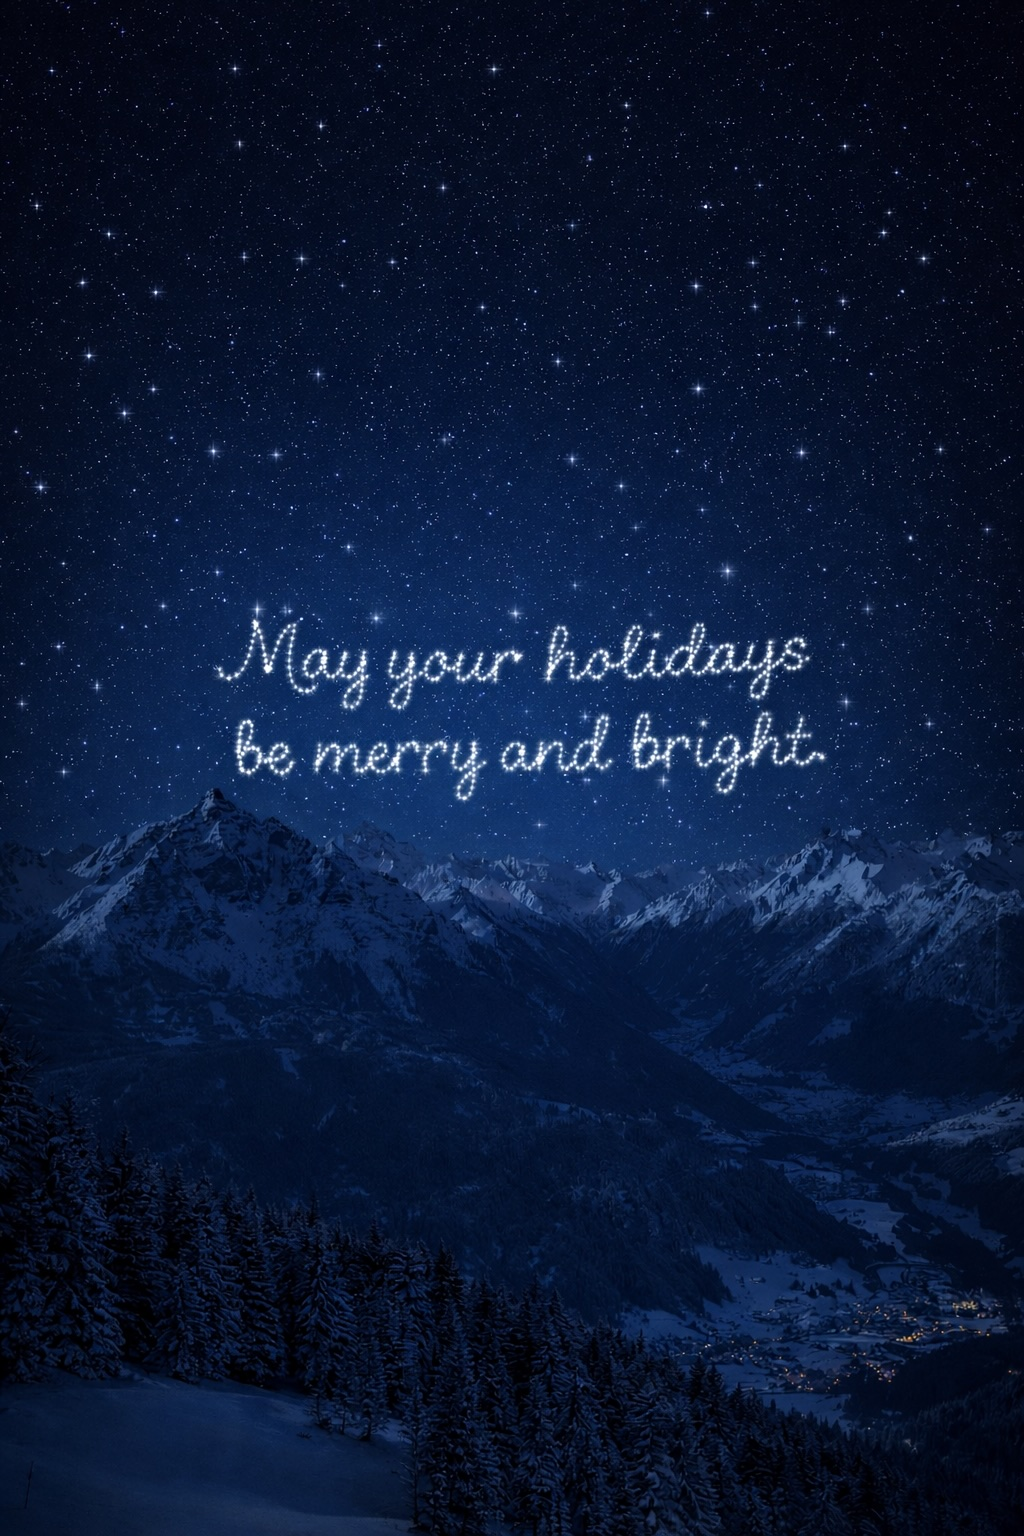
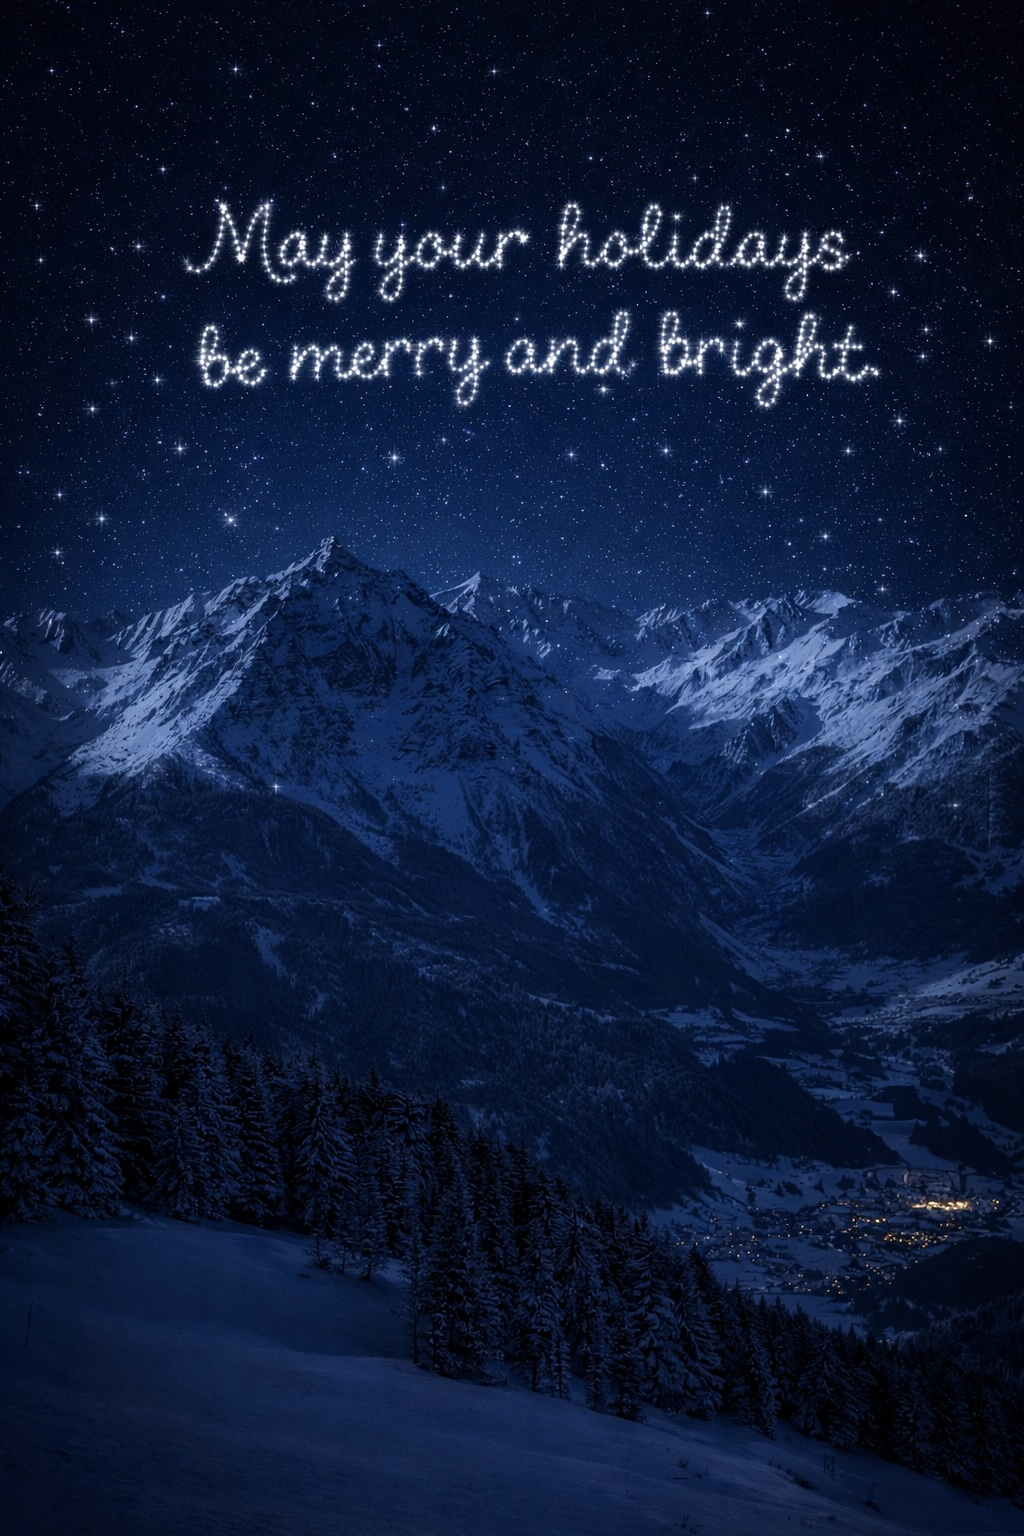
New BG graphic logic

diff --git a/src/style.css b/src/style.css
@@ -1,10 +1,15 @@
 :root {
   font-family: "Oleo Script", system-ui, -apple-system, sans-serif;
   --bg-x: 50%;
-  --bg-y-base: 50%;
+  --bg-y-base: 18%;
+  --bg-y-min: 8%;
+  --bg-y-max: 32%;
   --bg-y-offset: 0%;
   --bg-scale-base: 1;
   --bg-scale-offset: 0;
+  --bg-inset: 0vh;
+  --bg-poster-scale: 1;
+  --bg-poster-offset: 0%;
   --bgImage: none;
   --bgImagePortrait: none;
 }
@@ -27,12 +32,30 @@ html, body {
 #bg::before {
   content: "";
   position: absolute;
-  inset: -12vh;
+  inset: var(--bg-inset);
   background-image: var(--bgImage, none);
   background-repeat: no-repeat;
-  background-position: var(--bg-x) calc(var(--bg-y-base) + var(--bg-y-offset));
+  background-position:
+    var(--bg-x)
+    clamp(var(--bg-y-min), calc(var(--bg-y-base) + var(--bg-y-offset)), var(--bg-y-max));
   background-size: cover;
-  transform: scale(calc(var(--bg-scale-base) + var(--bg-scale-offset)));
+  filter: blur(14px) brightness(0.75);
+  opacity: 0.8;
+  transform: scale(calc(var(--bg-scale-base) + var(--bg-scale-offset) + 0.06));
+  transform-origin: center;
+  will-change: transform, opacity;
+}
+#bg::after {
+  content: "";
+  position: absolute;
+  inset: 0;
+  background-image: var(--bgImage, none);
+  background-repeat: no-repeat;
+  background-position:
+    var(--bg-x)
+    clamp(var(--bg-y-min), calc(var(--bg-y-base) + var(--bg-y-offset) + var(--bg-poster-offset)), var(--bg-y-max));
+  background-size: contain;
+  transform: scale(var(--bg-poster-scale));
   transform-origin: center;
   will-change: transform;
 }
@@ -55,15 +78,27 @@ body::before {
     linear-gradient(180deg, rgba(0,0,0,0.12), rgba(0,0,0,0.28));
 }
 
-@media (max-width: 520px) and (orientation: portrait) {
+@media (orientation: portrait) {
   :root {
     --bg-x: 50%;
     --bg-y-base: 12%;
-    --bg-scale-base: 0.82;
+    --bg-y-min: 2%;
+    --bg-y-max: 34%;
+    --bg-scale-base: 1;
+    --bg-inset: -8vh;
+    --bg-poster-scale: 1.02;
+    --bg-poster-offset: -2%;
     --bgImage: var(--bgImagePortrait);
   }
-  #bg::before {
-    inset: -30vh;
+}
+
+@media (orientation: landscape) {
+  :root {
+    --bg-y-base: 14%;
+    --bg-y-min: 6%;
+    --bg-y-max: 28%;
+    --bg-poster-scale: 0.96;
+    --bg-poster-offset: -3%;
   }
 }
 

diff --git a/dist/index.html b/dist/index.html
@@ -7,8 +7,8 @@
     <link rel="preconnect" href="https://fonts.googleapis.com">
     <link rel="preconnect" href="https://fonts.gstatic.com" crossorigin>
     <link href="https://fonts.googleapis.com/css2?family=Oleo+Script:wght@400;700&display=swap" rel="stylesheet">
-    <script type="module" crossorigin src="/assets/index-DUFbPeIz.js"></script>
-    <link rel="stylesheet" crossorigin href="/assets/index-CvSfLkd5.css">
+    <script type="module" crossorigin src="/assets/index-BAhrtss_.js"></script>
+    <link rel="stylesheet" crossorigin href="/assets/index-CUwqZgUJ.css">
   </head>
   <body>
     <div id="bg"></div>

diff --git a/src/ui/background.ts b/src/ui/background.ts
@@ -6,8 +6,8 @@ export type BackgroundController = {
 
 export function initBackground(bgEl: HTMLElement | null, baseUrl: string): BackgroundController {
   if (bgEl) {
-    bgEl.style.setProperty("--bgImage", `url("${baseUrl}assets/bg.jpg")`);
-    bgEl.style.setProperty("--bgImagePortrait", `url("${baseUrl}assets/bg-portrait.jpg")`);
+    bgEl.style.setProperty("--bgImage", `url("${baseUrl}assets/bg-with-floor.jpg")`);
+    bgEl.style.setProperty("--bgImagePortrait", `url("${baseUrl}assets/bg-with-floor.jpg")`);
   }
 
   const applyReveal = (e: number) => {
